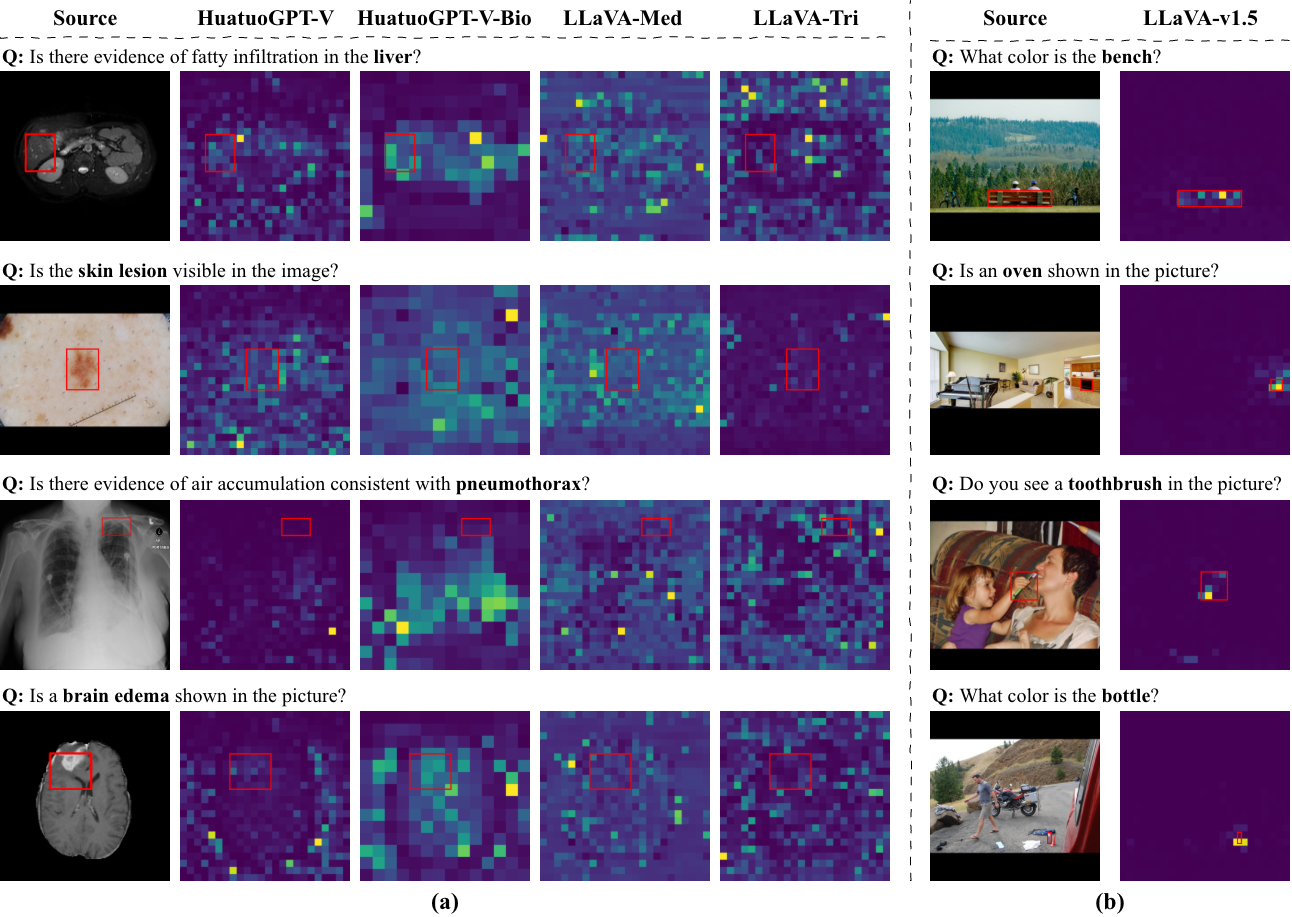
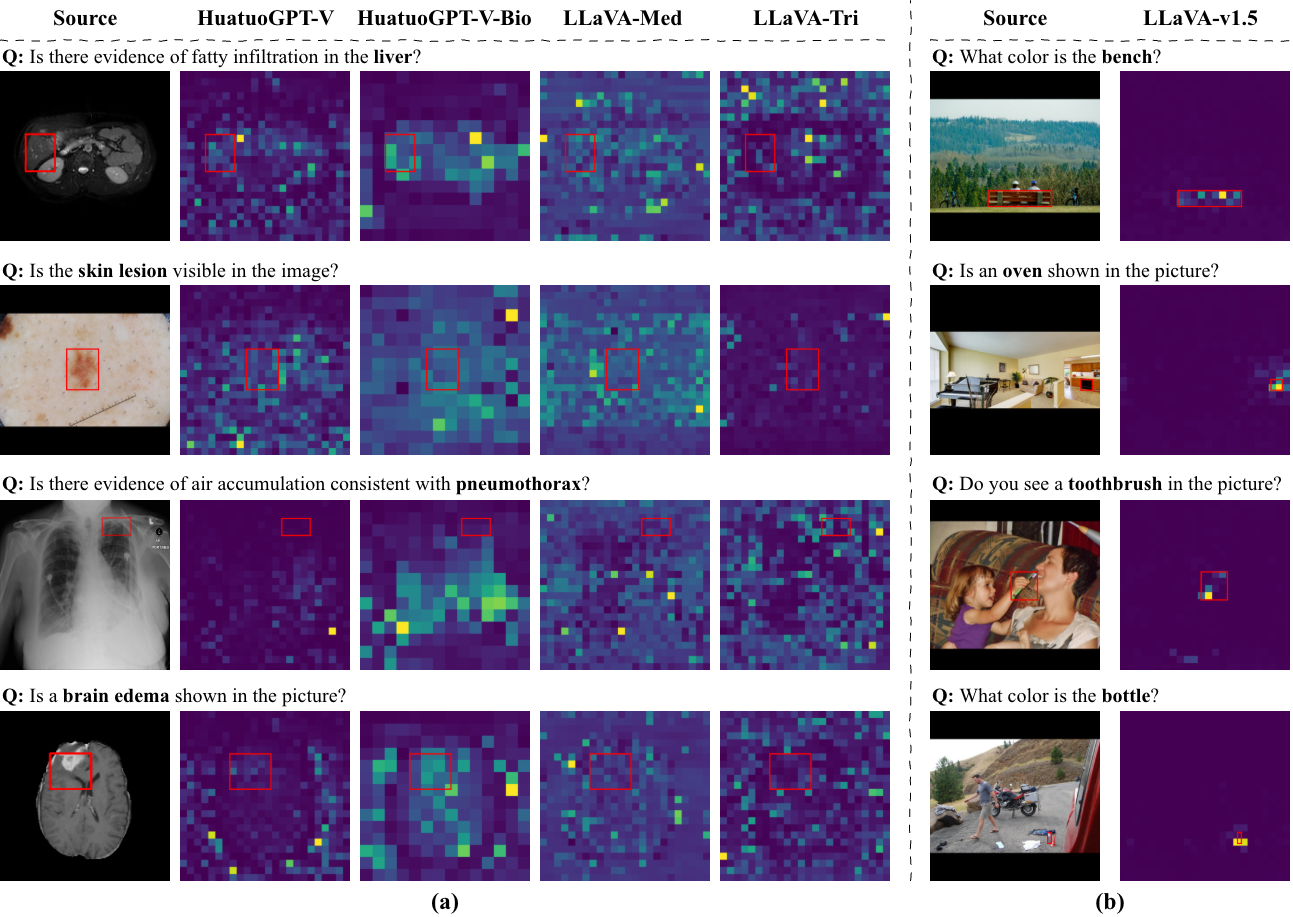
Add files via upload

diff --git a/index.html b/index.html
@@ -190,7 +190,7 @@
       font-size: 1.06rem;
       line-height: 1.92;
       color: #1f2937;
-      max-width: 900px;
+      max-width: 980px;
       text-align: justify;
       text-justify: inter-word;
     }
@@ -276,7 +276,8 @@
     }
 
     .figure-wrap {
-      margin-top: 1.15rem;
+      margin-top: 1.6rem;
+      margin-bottom: 1.6rem;
     }
 
     .figure-image {
@@ -351,6 +352,11 @@
         line-height: 1.8;
       }
 
+      .figure-wrap {
+        margin-top: 1.2rem;
+        margin-bottom: 1.2rem;
+      }
+
       .results-table {
         font-size: 0.88rem;
       }
@@ -422,20 +428,20 @@
     <div class="container is-max-desktop">
       <h2 class="title is-3 section-title">Summary</h2>
       <div class="section-content">
-          Generalist multimodal large language models (MLLMs) have achieved impressive performance across a wide range of vision-language tasks. However, their performance on medical tasks, particularly in zero-shot settings where generalization is critical, remains suboptimal. A key research gap is the limited understanding of why medical MLLMs underperform in medical image interpretation.
+          Generalist multimodal large language models (MLLMs) have achieved impressive performance across a wide range of vision-language tasks. However, their performance on medical tasks remains suboptimal. A key research gap is the limited understanding of why medical MLLMs underperform in medical image interpretation.
           <b>Our work, for the first time, systematically validates inadequate visual grounding in clinically relevant image regions as one of the key contributing factors for medical MLLMs' under-performance.</b>
-          We note that this finding is specific to medical image analysis; in contrast, prior work has shown that MLLMs are capable of grounding their predictions in the correct image regions when applied to natural scene images.
+          We note that this finding is specific to medical image analysis. In contrast, prior work has shown that MLLMs are capable of grounding their predictions in the correct image regions when applied to natural scene images.
       </div>
     </div>
   </section>
 
-
-
   <section class="section paper-section">
     <div class="container is-max-desktop">
-      <h2 class="title is-3 section-title">Failure modes of Medical MLLMs</h2>
+      <h2 class="title is-3 section-title">Visual Grounding Failure in Medical MLLMs</h2>
       <div class="section-content">
-        We show the visual grounding issues in state-of-the-art medical MLLMs. (a) Column 1 shows input medical images with expert-annotated ground-truth regions (red boxes). Columns 2-5 display attention distributions from representative medical MLLMs. (b) Column 1 shows natural scene images with annotated ground-truth bounding boxes, and column 2 shows attention distributions from LLaVA-v1.5. We observed that state-of-the-art medical MLLMs often suffer from <em>inadequate visual grounding</em>—they fail to accurately localize and interpret image regions that are clinically relevant to the question. We note that, in contrast, when applied to natural images, MLLMs are capable of grounding their predictions in the correct image regions. This limitation contributes to medical MLLMs' suboptimal performance on medical VQA tasks. See our paper for details.
+        We show the visual grounding issues in state-of-the-art medical MLLMs that they often suffer from <em>inadequate visual grounding</em>—they fail to accurately localize and interpret image regions that are clinically relevant to the question (subfig. a). 
+        In contrast, when applied to natural images, MLLMs are capable of grounding their predictions in the correct image regions (subfig. b). 
+        This limitation contributes to medical MLLMs' suboptimal performance on medical VQA tasks.
       </div>
       <div class="figure-wrap">
         <img class="figure-image" src="./static/Fig1.png" alt="Failure modes of Medical MLLMs figure">
@@ -445,10 +451,10 @@
 
   <section class="section paper-section">
     <div class="container is-max-desktop">
-      <h2 class="title is-3 section-title">VGMED: A new dataset for Visual Grounding analysis of MEDical MLLMs co-created with clinicians.</h2>
+      <h2 class="title is-3 section-title">VGMED Dataset</h2>
       <div class="section-content">
-        <p>To rigorously evaluate medical MLLMs' visual grounding, we aim to systematically assess the extent to which their outputs are supported by clinically relevant regions of the image. However, existing Med-VQA datasets often include questions about image modality or plane, which can be answered without referencing specific image regions. They also contain many abnormality- or knowledge-based questions that require substantial medical expertise to determine what to look for. This makes it difficult to disentangle whether model errors arise from inadequate semantic grounding (i.e., the model is unable to determine what to look for) or from inadequate visual grounding (i.e., the model is unable to localize and interpret the relevant image region even when it knows what to look for). As a result, existing datasets are not well-suited for analyzing visual grounding.</p>
-        <p>To disentangle <em>visual grounding</em> from <em>semantic grounding</em>, we design VGMED, a novel evaluation dataset developed with expert clinical guidance, explicitly assessing the visual grounding capability of medical MLLMs. To address this gap, we build an evaluation dataset VGMED, focusing on visual grounding analysis.</p>
+        <p>Existing Med-VQA datasets are not well-suited for systematically studying visual grounding (subfig. a): it's difficult to disentangle whether model errors arise from inadequate semantic grounding (i.e., the model is unable to determine what to look for) or from inadequate visual grounding (i.e., the model is unable to localize the relevant image region even when it knows what to look for).</p>
+        <p>To disentangle <em>visual grounding</em> from <em>semantic grounding</em>, we design VGMED (subfig. b), a novel evaluation dataset developed with expert clinical guidance, explicitly assessing the visual grounding capability of medical MLLMs. To address this gap, we build an evaluation dataset VGMED, focusing on visual grounding analysis.</p>
       </div>
       <div class="figure-wrap">
         <img class="figure-image" src="./static/Fig2.png" alt="VGMED dataset overview figure">
@@ -458,11 +464,11 @@
 
   <section class="section paper-section">
     <div class="container is-max-desktop">
-      <h2 class="title is-3 section-title">Analysis</h2>
+      <h2 class="title is-3 section-title">Observations</h2>
       <div class="section-content">
         <p>Medical MLLMs demonstrate suboptimal visual grounding when applied to medical images.
-        Analysis using our proposed VGMED dataset-designed specifically to assess visual grounding in medical MLLMs-shows that all evaluated medical MLLMs exhibit substantial weaker alignment between their attention distributions and ground-truth annotations on <span class="text-medical">medical images</span> compared to <span class="text-natural">natural scene images</span> (from MS COCO).
-        This failure mode contributed to their underperformance in zero-shot medical image understanding.
+        Analysis using our proposed VGMED dataset shows that all evaluated medical MLLMs exhibit substantial weaker alignment between their attention distributions and ground-truth annotations on <span class="text-medical">medical images</span> compared to <span class="text-natural">natural scene images</span> (from MS COCO).
+        <p>This failure mode contributed to their underperformance in zero-shot medical image understanding.
         Further comparison with LLaVA-v1.5 on natural images reinforces this observation: medical MLLMs show significantly lower alignment with annotated regions-highlighting deficiencies in visual grounding for medical image analysis.</p>
       </div>
       <div class="figure-wrap">
@@ -489,10 +495,12 @@
 
   <section class="section paper-section">
     <div class="container is-max-desktop">
-      <h2 class="title is-3 section-title">Experiments and Results</h2>
+      <h2 class="title is-3 section-title">Experimental Results</h2>
+      <div class="section-content">
+        <p>Our approach achieves SOTA performance across 6 diverse Med-VQA benchmarks (over 110K VQA samples from 8 imaging modalities) without requiring additional training or external expert models.</p>
+      </div>
       <div class="results-table-wrap">
         <table class="results-table">
-          <caption>Accuracy on medical VQA datasets. To align with the evaluation protocol with HuatuoGPT-V, we specifically used the closed-ended subset for evaluation. Evaluation on other subsets in Supp.</caption>
           <thead>
             <tr>
               <th>Model</th>
